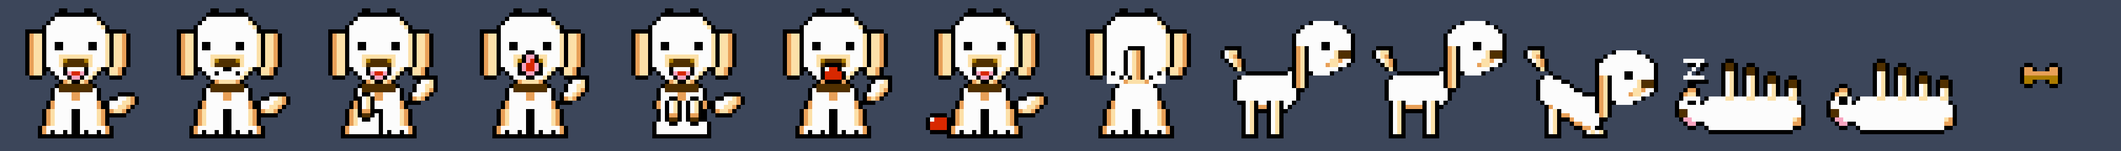
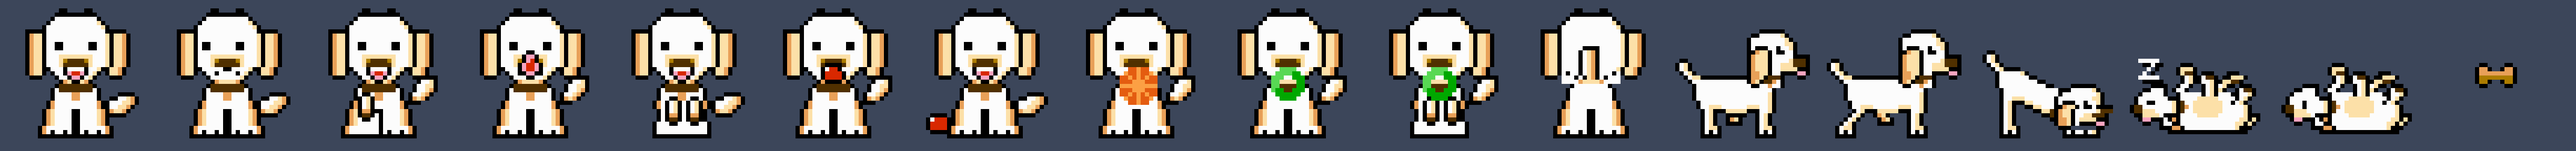
Hunden bærer leka til leverandøren du bør bruke
Oransje ball med stjerne er Claude, grønn ring er ChatGPT. Den med mest
kvote igjen vinner, målt som det verste av begge vinduer hos hver. Bytte
har 8 poengs dødsone, og hunden snurrer en runde når svaret skifter.

Et utløpt femtimersvindu ble tidligere lest som et ekte tall. Fasiten sto
på 63 prosent med nullstillingstid på minus 3,6 døgn. Nå faller vinduet
tilbake på estimatet, og uka på ukjent.

diff --git a/Sources/Kvote.swift b/Sources/Kvote.swift
@@ -26,12 +26,50 @@ struct Kvote {
         }
     }
 
+    /// Hvem det er billigst å bruke nå. `ingen` betyr enten at begge er fulle,
+    /// eller at vi ikke har tall nok til å si det. Hunden bærer ingen leke da.
+    enum Anbefaling {
+        case claude, codex, ingen
+
+        var navn: String {
+            switch self {
+            case .claude: return "Claude"
+            case .codex: return "ChatGPT"
+            case .ingen: return "ingen"
+            }
+        }
+
+        /// Rammenavnet på leka hunden holder i munnen.
+        var leke: String? {
+            switch self {
+            case .claude: return "lek-claude"
+            case .codex: return "lek-codex"
+            case .ingen: return nil
+            }
+        }
+
+        var andre: Anbefaling {
+            switch self {
+            case .claude: return .codex
+            case .codex: return .claude
+            case .ingen: return .ingen
+            }
+        }
+    }
+
     struct Vindu {
         var prosent: Double?
         var nullstillesOmSek: Double?
         var alderSek: Double?
         /// Bare uka for Claude: det lokale forbruket siden fasiten ble hentet.
         var tilleggLokalt: Double?
+        /// «fasit», «anslag», «nullstilt» eller «for gammel».
+        var kilde: String?
+
+        /// Nullstillingstida regnes ut i det fila skrives. Er den negativ, er
+        /// vinduet for lengst rullet rundt, og tallet gjelder et vindu som
+        /// ikke finnes lenger.
+        var utloept: Bool { (nullstillesOmSek ?? 1) <= 0 }
 
         /// Fasit pluss det vi selv har sett siden. Aldri over hundre.
         var samlet: Double? {
@@ -52,13 +90,22 @@ struct Kvote {
     var codex: Leverandor?
     var lest: Date?
 
-    /// Presset styres av uka, med femtimersvinduet som sperre for om det er
-    /// lov å jobbe akkurat nå.
-    var press: Press {
-        var verst = 0.0
-        for l in [claude, codex].compactMap({ $0 }) {
-            verst = max(verst, l.uke.samlet ?? 0, l.femTimer.samlet ?? 0)
+    /// Hvor trangt det er hos en leverandør: det verste av de to vinduene.
+    func rom(_ hvem: Anbefaling) -> Double? {
+        let l: Leverandor?
+        switch hvem {
+        case .claude: l = claude
+        case .codex: l = codex
+        case .ingen: l = nil
         }
+        guard let l else { return nil }
+        return [l.uke.samlet, l.femTimer.samlet].compactMap { $0 }.max()
+    }
+
+    /// Presset styres av det verste vinduet hos begge, fordi hunden bare har
+    /// ett humør. Selve valget av leverandør ligger i `Kvotevakt.anbefaling`.
+    var press: Press {
+        let verst = [rom(.claude), rom(.codex)].compactMap { $0 }.max() ?? 0
         if verst >= 90 { return .tomt }
         if verst >= 75 { return .stramt }
         return .rolig
@@ -79,7 +126,15 @@ final class Kvotevakt {
     /// grunn til å skanne transkripsjonene oftere enn tallene endrer seg.
     private static let oppfriskning: TimeInterval = 150
 
+    /// Hunden bytter ikke leke for et par poengs forskjell. Uten dødsone ville
+    /// den skiftet fram og tilbake hver gang tallene rikket seg.
+    private static let vippegrense: Double = 8
+
+    /// Over dette er en leverandør uaktuell, uansett hva den andre står på.
+    private static let full: Double = 90
+
     private(set) var kvote = Kvote()
+    private(set) var anbefaling: Kvote.Anbefaling = .ingen
     /// Kalles når nye tall er lest, så menylinja slipper å vente på neste tikk.
     var vedNyeTall: (() -> Void)?
     private var sistKjort = Date.distantPast
@@ -123,34 +178,81 @@ final class Kvotevakt {
         var ny = Kvote()
         ny.lest = (try? FileManager.default.attributesOfItem(atPath: Kvotevakt.statusfil))?[.modificationDate] as? Date
         ny.claude = leverandor(rot["claude"], navn: "Claude")
-        ny.codex = leverandor(rot["codex"], navn: "Codex")
+        ny.codex = leverandor(rot["codex"], navn: "ChatGPT")
         kvote = ny
+        velgLeverandor()
         vedNyeTall?()
+    }
+
+    /// Den med mest plass vinner. Er begge fulle, vinner ingen.
+    private func velgLeverandor() {
+        let c = kvote.rom(.claude)
+        let g = kvote.rom(.codex)
+        switch (c, g) {
+        case (nil, nil):
+            anbefaling = .ingen
+        case (let a?, nil):
+            anbefaling = a >= Kvotevakt.full ? .ingen : .claude
+        case (nil, let b?):
+            anbefaling = b >= Kvotevakt.full ? .ingen : .codex
+        case (let a?, let b?):
+            if a >= Kvotevakt.full && b >= Kvotevakt.full { anbefaling = .ingen; return }
+            if a >= Kvotevakt.full { anbefaling = .codex; return }
+            if b >= Kvotevakt.full { anbefaling = .claude; return }
+            let onsket: Kvote.Anbefaling = a <= b ? .claude : .codex
+            let liten = abs(a - b) < Kvotevakt.vippegrense
+            if anbefaling != .ingen && onsket != anbefaling && liten { return }
+            anbefaling = onsket
+        }
     }
 
     private func leverandor(_ rå: Any?, navn: String) -> Kvote.Leverandor? {
         guard let d = rå as? [String: Any] else { return nil }
         var l = Kvote.Leverandor(navn: navn)
         l.plan = (d["plan"] as? String)?.capitalized
-        l.alderSek = d["alder_sek"] as? Double
+        // Claude oppgir alderen på fasiten, Codex på sin egen avlesning.
+        l.alderSek = (d["alder_sek"] as? Double) ?? (d["fasit_alder_sek"] as? Double)
         if let v = d["vinduer"] as? [String: Any] {
-            l.femTimer = vindu(v["5t"])
-            l.uke = vindu(v["uke"])
+            l.femTimer = vindu(v["5t"], kilde: "fasit")
+            l.uke = vindu(v["uke"], kilde: "fasit")
+        }
+
+        // En fasit har to tall med ulik holdbarhet. Femtimerstallet dør etter
+        // fem timer, ukestallet lever en uke. Et femtimerstall fra i forgårs
+        // sier ingenting om vinduet vi står i nå, og må ikke få bestemme hvem
+        // som anbefales.
+        if l.femTimer.utloept {
+            let est = ((d["estimat"] as? [String: Any])?["5t"] as? [String: Any])
+            let anslag = est?["prosent"] as? Double
+            // Anslaget teller sitt eget rullende vindu, så nullstillinga kan
+            // regnes ut av når vinduet startet.
+            let igjen = (est?["vindu_startet"] as? Double).map {
+                $0 + 5 * 3600 - Date().timeIntervalSince1970
+            }
+            l.femTimer = Kvote.Vindu(prosent: anslag ?? 0, nullstillesOmSek: igjen, alderSek: 0,
+                                     tilleggLokalt: nil,
+                                     kilde: anslag == nil ? "nullstilt" : "anslag")
+        }
+        // Uka kan ikke anslås lokalt, se cloud-okter-gjor-ukeskvota-umulig-a-
+        // telle-lokalt. Er ukesfasiten utløpt, vet vi rett og slett ikke.
+        if l.uke.utloept {
+            l.uke = Kvote.Vindu(kilde: "for gammel")
         }
         return (l.femTimer.prosent == nil && l.uke.prosent == nil) ? nil : l
     }
 
-    private func vindu(_ rå: Any?) -> Kvote.Vindu {
+    private func vindu(_ rå: Any?, kilde: String) -> Kvote.Vindu {
         guard let d = rå as? [String: Any] else { return Kvote.Vindu() }
         return Kvote.Vindu(prosent: d["prosent"] as? Double,
                            nullstillesOmSek: d["nullstilles_om_sek"] as? Double,
                            alderSek: d["alder_sek"] as? Double,
-                           tilleggLokalt: d["tillegg_lokalt_poeng"] as? Double)
+                           tilleggLokalt: d["tillegg_lokalt_poeng"] as? Double,
+                           kilde: d["kilde"] as? String ?? kilde)
     }
 }
 
 /// Tekstene i menylinja. Et tall står aldri alene: alderen hører med, fordi
-/// Codex-tallet er så gammelt som siste Codex-kjøring og kan være dager
+/// ChatGPT-tallet er så gammelt som siste Codex-kjøring og kan være dager
 /// gammelt uten å se rart ut.
 enum Kvotetekst {
 
@@ -170,45 +272,66 @@ enum Kvotetekst {
     }
 
     static func prosent(_ v: Kvote.Vindu) -> String {
-        guard let p = v.prosent else { return "?" }
+        guard let p = v.prosent else { return v.kilde ?? "?" }
         let grunn = "\(Int(p.rounded())) %"
         if let t = v.tilleggLokalt, t >= 0.1 {
-            return grunn + String(format: " + %.1f lokalt", t)
+            let tall = String(format: "%.1f", t).replacingOccurrences(of: ".", with: ",")
+            return grunn + " + \(tall) lokalt"
         }
         return grunn
     }
 
     /// En linje per vindu, pluss en overskrift per leverandør.
-    static func linjer(_ k: Kvote) -> [(tekst: String, overskrift: Bool)] {
+    static func linjer(_ k: Kvote, _ a: Kvote.Anbefaling) -> [(tekst: String, overskrift: Bool)] {
         var ut: [(String, Bool)] = []
+        ut.append((raad(k, a), true))
         for l in [k.claude, k.codex].compactMap({ $0 }) {
             let plan = l.plan.map { " \($0)" } ?? ""
-            ut.append(("\(l.navn)\(plan), avlest \(alder(l.alderSek))", true))
+            let via = l.navn == "ChatGPT" ? ", målt via Codex" : ""
+            ut.append(("\(l.navn)\(plan)\(via), avlest \(alder(l.alderSek))", true))
             for (merke, v) in [("5 timer", l.femTimer), ("uke", l.uke)] {
-                guard v.prosent != nil else { continue }
-                ut.append(("   \(merke): \(prosent(v)), nullstilles om \(varighet(v.nullstillesOmSek))", false))
+                var linje = "   \(merke): \(prosent(v))"
+                if v.prosent != nil, let n = v.nullstillesOmSek {
+                    linje += ", nullstilles om \(varighet(n))"
+                }
+                if let kilde = v.kilde, kilde != "fasit", v.prosent != nil {
+                    linje += " (\(kilde))"
+                }
+                ut.append((linje, false))
             }
         }
-        if ut.isEmpty {
+        if !k.harTall {
             ut.append(("Ingen kvotetall. Kjør forbruksvakt.py", true))
         }
         return ut
     }
 
-    /// Det som står i selve menylinja, ved siden av labben. Uka, fordi det er
-    /// den som binder.
-    static func kort(_ k: Kvote) -> String {
-        guard k.harTall else { return "" }
-        let uker = [k.claude?.uke.samlet, k.codex?.uke.samlet].compactMap { $0 }
-        guard let verst = uker.max() else { return "" }
-        return " \(Int(verst.rounded())) %"
+    /// Setningen hunden illustrerer med leka i munnen.
+    static func raad(_ k: Kvote, _ a: Kvote.Anbefaling) -> String {
+        guard k.harTall else { return "Kvote: ukjent" }
+        switch a {
+        case .ingen:
+            if k.press == .tomt { return "Begge kvotene er brukt opp" }
+            return "Vet ikke nok til å anbefale noen"
+        case .claude, .codex:
+            let min = k.rom(a).map { "\(Int($0.rounded())) %" } ?? "?"
+            let andre = k.rom(a.andre).map { "\(Int($0.rounded())) %" }
+            let hale = andre.map { ", \(a.andre.navn) står på \($0)" } ?? ""
+            return "Bruk \(a.navn) nå: \(min) brukt\(hale)"
+        }
     }
 
-    /// Kort oppsummering til toppen av menyen.
-    static func sammendrag(_ k: Kvote) -> String {
-        guard k.harTall else { return "Kvote: ukjent" }
-        let uker = [k.claude?.uke.samlet, k.codex?.uke.samlet].compactMap { $0 }
-        let verst = uker.max() ?? 0
-        return "Uke: \(Int(verst.rounded())) % brukt, \(k.press.beskrivelse)"
+    /// Det som står i selve menylinja, ved siden av labben: hvem du bør bruke,
+    /// og hvor mye av den som er brukt opp.
+    static func kort(_ k: Kvote, _ a: Kvote.Anbefaling) -> String {
+        guard k.harTall else { return "" }
+        switch a {
+        case .ingen:
+            let verst = [k.rom(.claude), k.rom(.codex)].compactMap { $0 }.max() ?? 0
+            return " tomt \(Int(verst.rounded())) %"
+        case .claude, .codex:
+            guard let p = k.rom(a) else { return " \(a.navn)" }
+            return " \(a.navn) \(Int(p.rounded())) %"
+        }
     }
 }

diff --git a/Sources/Hund.swift b/Sources/Hund.swift
@@ -132,6 +132,9 @@ final class Hundevisning: NSView {
 
     /// Kvota fra forbruksvakt. Hunden leser den, og humøret følger uka.
     let kvotevakt = Kvotevakt()
+    /// Leka hunden holdt sist, så et bytte kan merkes. `nil` betyr at vi ennå
+    /// ikke har lest kvota en eneste gang.
+    private var sisteLek: Kvote.Anbefaling?
 
     init(piksler: Piksler) {
         self.piksler = piksler
@@ -291,6 +294,18 @@ final class Hundevisning: NSView {
             loepMot(dt)
 
         case .sitter:
+            // Ny anbefaling: hunden snurrer en runde og sitter igjen med den
+            // andre leka. Bytte teller bare mellom to ekte anbefalinger, så
+            // den ikke snurrer av at tallene kommer inn for første gang.
+            if kvotevakt.anbefaling != sisteLek {
+                let forrige = sisteLek
+                sisteLek = kvotevakt.anbefaling
+                if let f = forrige, f != .ingen, kvotevakt.anbefaling != .ingen {
+                    snurr()
+                    return
+                }
+            }
+
             // Er kvota brukt opp, er det ingenting å mase om. Da legger den
             // seg, men bare når du ikke akkurat har rørt noe.
             if kvotevakt.kvote.press == .tomt && stille > 20 { sovne(); return }
@@ -782,7 +797,9 @@ final class Hundevisning: NSView {
     // MARK: - Tegning
 
     private func lag() -> [String] {
-        if rolig { return ["kropp", "hale-midt"] }
+        // «Reduser bevegelse» slår av bevegelsene, ikke opplysningene. Leka
+        // står stille og skal derfor bli med.
+        if rolig { return ["kropp", "hale-midt"] + [kvotevakt.anbefaling.leke].compactMap { $0 } }
 
         switch tilstand {
         case .sover:
@@ -805,17 +822,28 @@ final class Hundevisning: NSView {
 
         var lag = [tilstand == .tigger ? "tigger" : "kropp",
                    Hundevisning.halerammer[haleIndeks]]
-        let harBallenIMunnen = tilstand == .ball && !ballPaaBakken
+        let leke = lekeramme()
+        let munnenFull = (tilstand == .ball && !ballPaaBakken) || leke != nil
         if tilstand == .ball { lag.append(ballPaaBakken ? "ball" : "i-munnen") }
         if tilstand == .sitter && poteOppe { lag.append("pote-opp") }
         if tid < blunkerTil { lag.append("blunk") }
         if slikkerNa {
             lag.append("slikk")
-        } else if tungeUte && !harBallenIMunnen {
+        } else if tungeUte && !munnenFull {
             lag.append("tunge")
         }
         if blikk < 0 { lag.append("blikk-venstre") } else if blikk > 0 { lag.append("blikk-hoyre") }
+        // Leka males til slutt, så den dekker tunga i stedet for omvendt.
+        if let leke { lag.append(leke) }
         return lag
+    }
+
+    /// Leka i munnen: den leverandøren det er mest igjen av. Oransje ball med
+    /// stjerne er Claude, grønn ring er ChatGPT. Leses rett fra kvotevakta og
+    /// ikke fra en teller, så den også vises når `--vis` har låst posituren.
+    private func lekeramme() -> String? {
+        guard tilstand == .sitter || tilstand == .tigger else { return nil }
+        return kvotevakt.anbefaling.leke
     }
 
     private func hundebilde() -> NSImage {

diff --git a/Sources/App.swift b/Sources/App.swift
@@ -177,21 +177,22 @@ final class Delegat: NSObject, NSApplicationDelegate, NSMenuDelegate {
     }
 
     private func oppdaterLinje() {
-        guard let k = vindu?.visning.kvotevakt.kvote else { return }
-        menylinje?.button?.title = Kvotetekst.kort(k)
-        kvotevalg?.title = Kvotetekst.sammendrag(k)
+        guard let vakt = vindu?.visning.kvotevakt else { return }
+        menylinje?.button?.title = Kvotetekst.kort(vakt.kvote, vakt.anbefaling)
+        kvotevalg?.title = Kvotetekst.raad(vakt.kvote, vakt.anbefaling)
     }
 
     /// Menyen bygges om idet den åpnes, ellers ville tallene vært fra
     /// oppstarten. Alderen står ved hvert tall, aldri et tall alene.
     func menuNeedsUpdate(_ menu: NSMenu) {
-        guard let k = vindu?.visning.kvotevakt.kvote else { return }
+        guard let vakt = vindu?.visning.kvotevakt else { return }
+        let k = vakt.kvote
         if menu !== kvotemeny {
-            kvotevalg?.title = Kvotetekst.sammendrag(k)
+            kvotevalg?.title = Kvotetekst.raad(k, vakt.anbefaling)
             return
         }
         menu.removeAllItems()
-        for (tekst, overskrift) in Kvotetekst.linjer(k) {
+        for (tekst, overskrift) in Kvotetekst.linjer(k, vakt.anbefaling) {
             let p = NSMenuItem(title: tekst, action: nil, keyEquivalent: "")
             p.isEnabled = false
             if overskrift {

diff --git a/tools/forhandsvis.py b/tools/forhandsvis.py
@@ -59,6 +59,9 @@ def main():
         ("tigger", ["tigger", "hale-midt", "tunge"]),
         ("ballen", ["kropp", "hale-opp", "i-munnen"]),
         ("ballen ligger", ["kropp", "hale-midt", "ball", "tunge"]),
+        ("claude-leke", ["kropp", "hale-opp", "lek-claude"]),
+        ("gpt-leke", ["kropp", "hale-opp", "lek-codex"]),
+        ("tigger m/leke", ["tigger", "hale-opp", "lek-codex"]),
         ("bakfra", ["bakfra"]),
         ("profil", ["profil"]),
         ("gaar", ["profil-gaa1"]),
